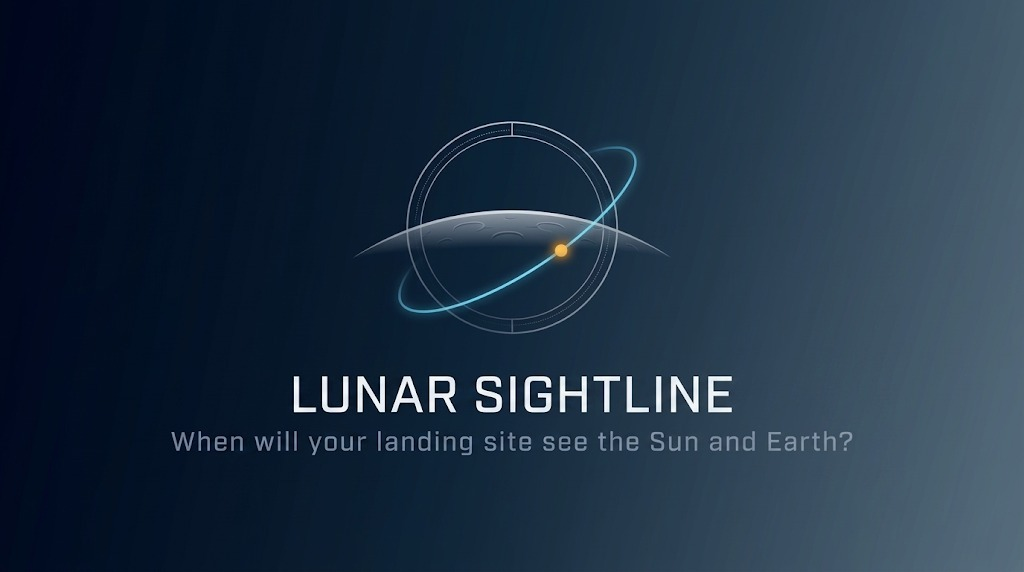
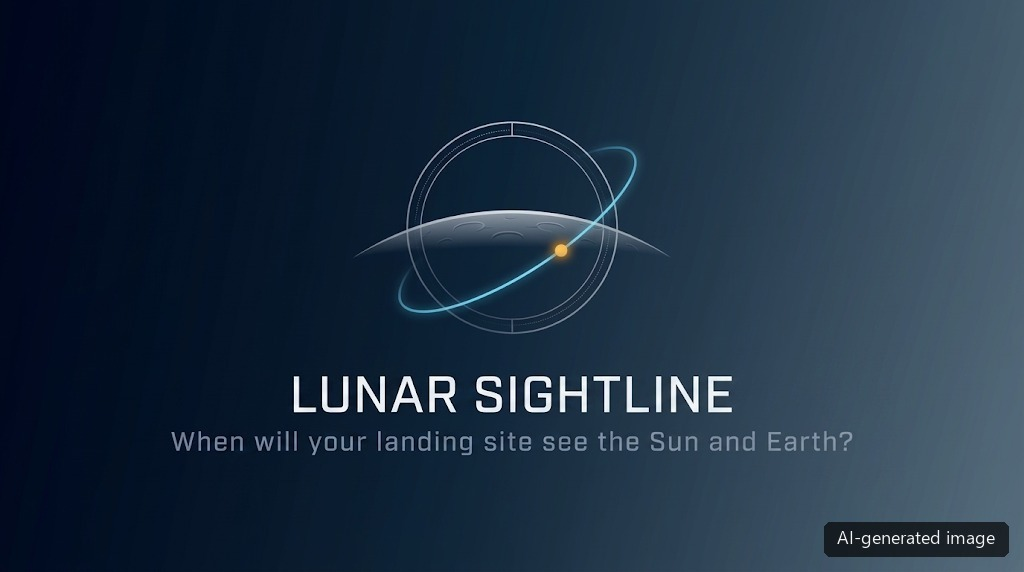
Mark the AI-generated design references as AI-generated images (D-185)
ref-2-emblema.jpg and ref-3-concepto.jpg carry 'AI-generated image' in their
pixels, bottom right, white on a translucent dark band, as Space Apps 2026
asks before the repository goes public (D-46, D-142). ref-1-open-horizon.jpg
is a capture of the HTML mockup, not a generated image.

AI-assisted: Claude Code

Changed region(s): [[0.7812, 0.8916, 1.0, 0.9808]]

diff --git a/docs/decisions.md b/docs/decisions.md
@@ -134,3 +134,4 @@ fijaba: `@types/react` 19.3.0, `@types/react-dom` 19.3.0, `@types/d3-array` 3.2.
 | D-182 | 2026-11-15 | **El título de la aplicación pasa a ser «Lunar Sightline»:** `<title>` de la pestaña, `app.title`, `app.title_short` (v1) y `APP_TITLE`. El enlace del emblema en v2 deja de añadir el título largo oculto (se habría leído «Lunar Sightline» dos veces): su nombre accesible es la marca y el lema visibles (B9, etiqueta en el nombre). «Lunar Landing Site Navigator» queda solo como nombre del reto de NASA Space Apps (README, fuentes) y del repositorio. Acordado por todo el equipo. |
 | D-183 | 2026-11-15 | **Play: la vista 3D sigue al astro y el resumen llano no parpadea.** (a) Mientras se reproduce, la cámara 3D gira cada fotograma lo mismo que el acimut del astro en foco (`followTurn`), en órbita y a ras de suelo, conservando el encuadre; girarla a mano, `North up` o `Go to` lo detienen y `Centre on …` (también el ya activo, por la petición `recentre` que ya usaba la 2D) o `Recenter` lo reanudan. Antes solo giraba una vez al cambiar de astro. (b) El resumen se reescribía en cada fotograma (elevación con dos decimales, cuenta atrás al minuto, fracción del disco que cruza el 100 % cuando el Sol roza una cresta): mientras se reproduce usa solo palabras estables (sin elevación, fracción, porcentaje del eclipse ni distancia; sucesos a su hora UTC). En pausa vuelve el texto completo. Sin cambios en cálculos. |
 | D-184 | 2026-11-15 | **Ayuda de Explore / Plan / Learn solo al pasar el ratón.** Sustituye la línea fija bajo los modos de T-90 (propuesta 8): una nota flotante con el estilo de D-176 que aparece mientras el puntero está sobre una pestaña o el foco de teclado (`:focus-visible`) está en ella, y se cierra con Esc. Textos nuevos, más cortos y sin repetir el nombre del modo: `See when one site has sunlight and a direct line to Earth.`, `Compare sites and dates against your mission requirements.`, `A 60-second guided tour of why the terrain decides.` Los lectores de pantalla la siguen recibiendo como descripción de cada pestaña. En pantallas táctiles no se muestra. |
+| D-185 | 2026-11-15 | **Marca de agua en las imágenes hechas con IA del repositorio** (cumple D-142 antes de hacerlo público): `docs/design/ref-2-emblema.jpg` y `docs/design/ref-3-concepto.jpg` llevan grabado en los píxeles «AI-generated image», abajo a la derecha, en blanco sobre una franja negra semitransparente (texto ≈ 1,8 % del ancho de la imagen, Segoe UI). `ref-1-open-horizon.jpg` es una captura de la maqueta HTML, no una imagen generada, y no la lleva. Las versiones sin marca siguen en el historial de git (no se reescribe, §7 de `CLAUDE.md`). | Normas de Space Apps 2026 (D-46): las imágenes hechas con IA llevan marca de agua | Recortar o borrar las imágenes (se pierde la referencia de diseño de D-104) |

diff --git a/AI_USAGE.md b/AI_USAGE.md
@@ -69,3 +69,4 @@ Content owner: A2.
 | RC-FINAL (3) | Third round on branch `i1-fix2` (delegated by I1): measured small laptop windows, phone and tablet with Playwright; compact bottom strip for short windows with a mouse, phone pills that wrap, tablet figures on their own row (D-161 to D-163); checked the low-tier 3D Sun with a screenshot; merged into `rc-final` | A person checks the layouts on the M15 laptop, a phone and a tablet |
 | Rename (D-182) | Renamed the app title from "Lunar Landing Site Navigator" to "Lunar Sightline" (browser tab, i18n title, v1 header, constant), removed the duplicated hidden title from the v2 brand link, and updated the unit and e2e tests, the README heading and the interface specs | The team agreed on the name; a person checks the browser tab and a screen reader on the deployed site |
 | Play and mode help (D-183, D-184) | Reproduced the reported issues with Playwright (summary text rewritten on every playback frame; 3D camera not following the Sun); made the 3D camera follow the focus body while playing, a steady summary wording while playing, and the Explore / Plan / Learn help as a hover note with shorter texts; unit and e2e tests | The team checks the 3D follow, the summary and the hover note on the preview, desktop and phone |
+| Watermark (D-185) | Stamped "AI-generated image" onto the two AI-generated design references (`ref-2-emblema.jpg`, `ref-3-concepto.jpg`) with a Pillow script before the repository goes public | A person checks that the label is legible and covers nothing important |
